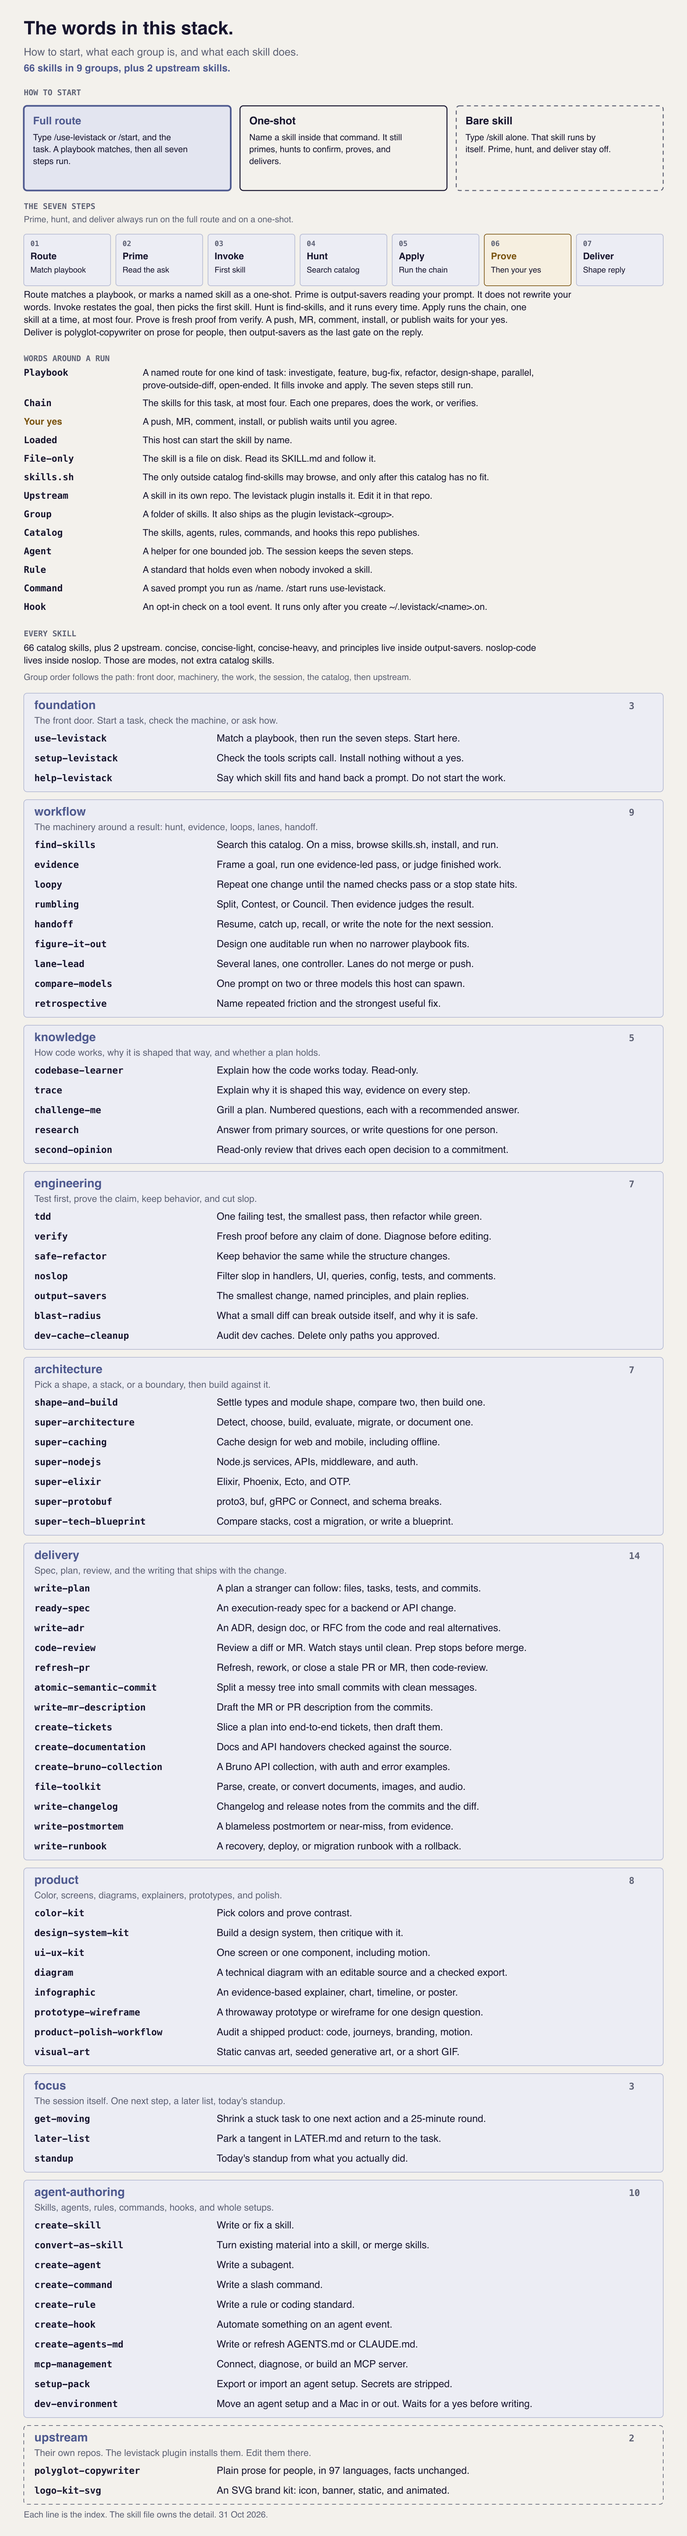
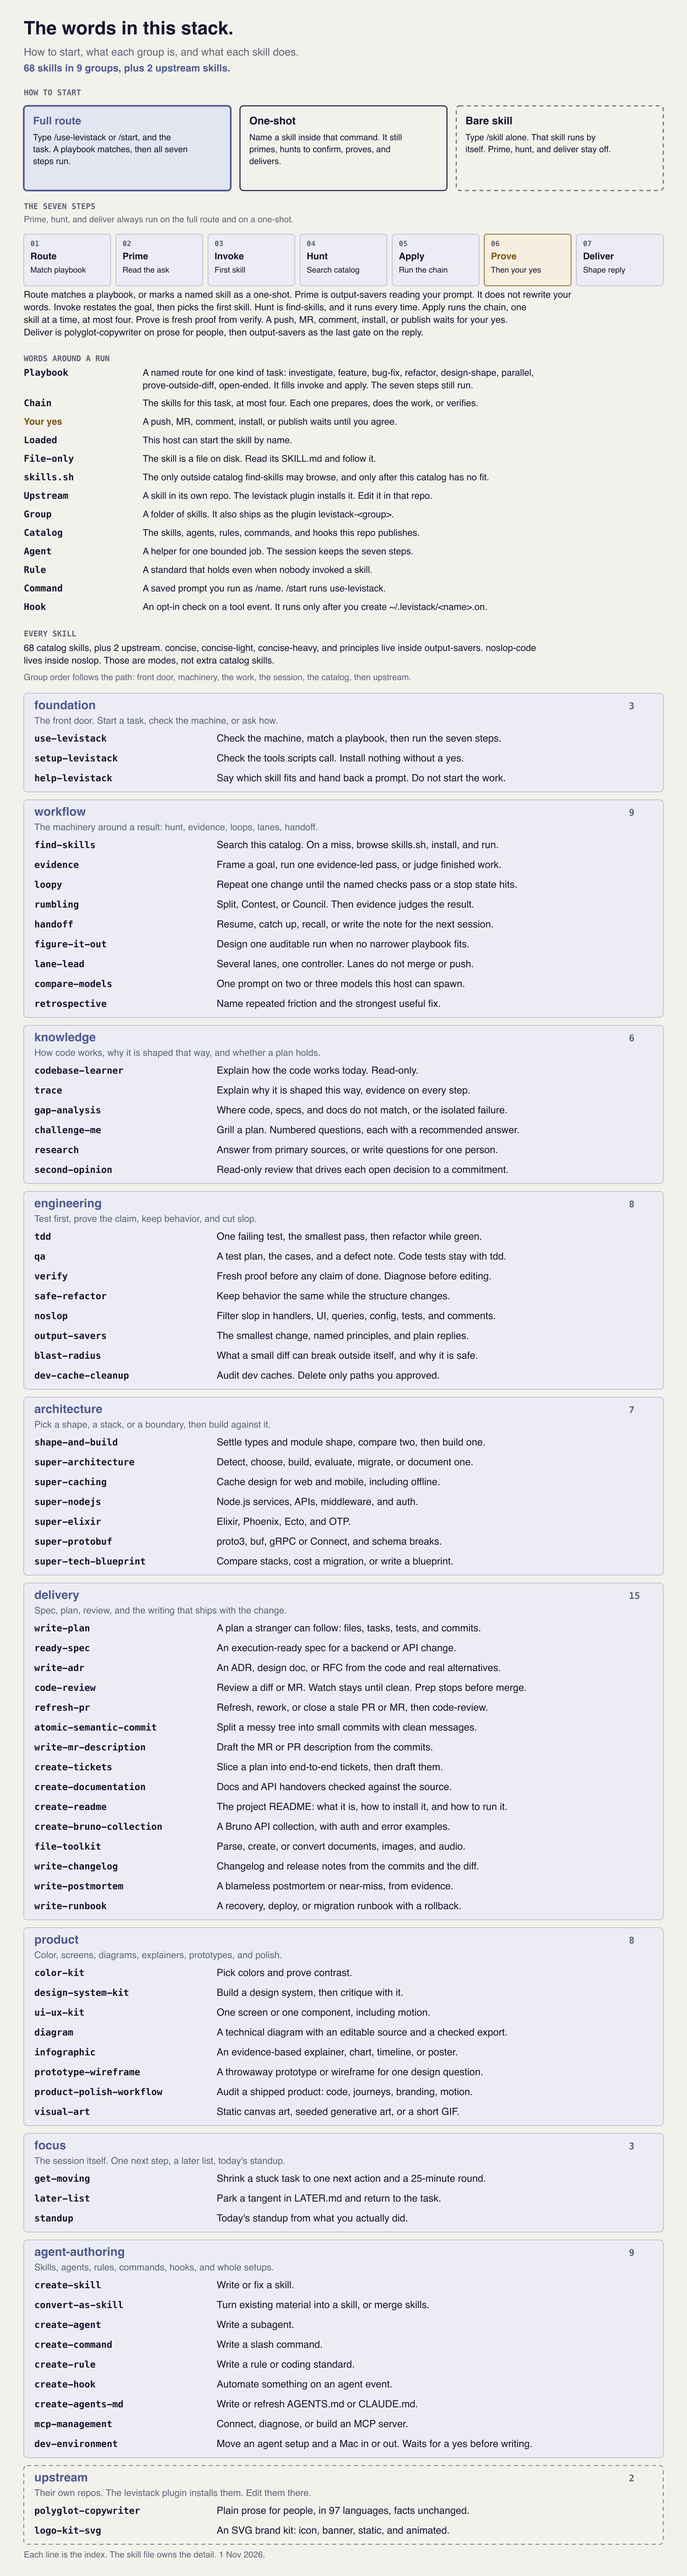
docs(readme): show 68 skills in the glossary
The glossary, routing picture, and changelog match the three new skills.

diff --git a/skills/foundation/help-levistack/SKILL.md b/skills/foundation/help-levistack/SKILL.md
@@ -184,18 +184,18 @@ Order follows the path: front door, machinery, the work, the session, the catalo
 |---|---|---|
 | [`foundation`](../../foundation/DESCRIPTION.md) | The front door. Start a task, check the machine, or ask how. | 3 |
 | [`workflow`](../../workflow/DESCRIPTION.md) | The machinery around a result: hunt, evidence, loops, lanes, handoff. | 9 |
-| [`knowledge`](../../knowledge/DESCRIPTION.md) | How code works, why it is shaped that way, and whether a plan holds. | 5 |
-| [`engineering`](../../engineering/DESCRIPTION.md) | Test first, prove the claim, keep behavior, and cut slop. | 7 |
+| [`knowledge`](../../knowledge/DESCRIPTION.md) | How code works, why it is shaped that way, and whether a plan holds. | 6 |
+| [`engineering`](../../engineering/DESCRIPTION.md) | Test first, prove the claim, keep behavior, and cut slop. | 8 |
 | [`architecture`](../../architecture/DESCRIPTION.md) | Pick a shape, a stack, or a boundary, then build against it. | 7 |
-| [`delivery`](../../delivery/DESCRIPTION.md) | Spec, plan, review, and the writing that ships with the change. | 14 |
+| [`delivery`](../../delivery/DESCRIPTION.md) | Spec, plan, review, and the writing that ships with the change. | 15 |
 | [`product`](../../product/DESCRIPTION.md) | Color, screens, diagrams, explainers, prototypes, and polish. | 8 |
 | [`focus`](../../focus/DESCRIPTION.md) | The session itself. One next step, a later list, today's standup. | 3 |
-| [`agent-authoring`](../../agent-authoring/DESCRIPTION.md) | Skills, agents, rules, commands, hooks, and whole setups. | 10 |
+| [`agent-authoring`](../../agent-authoring/DESCRIPTION.md) | Skills, agents, rules, commands, hooks, and whole setups. | 9 |
 | [`upstream`](../../../upstream.json) | Their own repos. The levistack plugin installs them. Edit them there. | 2 |
 
 ### Every skill
 
-66 catalog skills, plus 2 upstream. concise, concise-light, concise-heavy, and principles live inside output-savers. noslop-code lives inside noslop. Those are modes, not extra catalog skills.
+68 catalog skills, plus 2 upstream. concise, concise-light, concise-heavy, and principles live inside output-savers. noslop-code lives inside noslop. Those are modes, not extra catalog skills.
 
 #### foundation
 
@@ -225,6 +225,7 @@ Order follows the path: front door, machinery, the work, the session, the catalo
 |---|---|
 | [`codebase-learner`](../../knowledge/codebase-learner/SKILL.md) | Explain how the code works today. Read-only. |
 | [`trace`](../../knowledge/trace/SKILL.md) | Explain why it is shaped this way, evidence on every step. |
+| [`gap-analysis`](../../knowledge/gap-analysis/SKILL.md) | Where code, specs, and docs do not match, or the isolated failure. |
 | [`challenge-me`](../../knowledge/challenge-me/SKILL.md) | Grill a plan. Numbered questions, each with a recommended answer. |
 | [`research`](../../knowledge/research/SKILL.md) | Answer from primary sources, or write questions for one person. |
 | [`second-opinion`](../../knowledge/second-opinion/SKILL.md) | Read-only review that drives each open decision to a commitment. |
@@ -234,6 +235,7 @@ Order follows the path: front door, machinery, the work, the session, the catalo
 | Skill | Does |
 |---|---|
 | [`tdd`](../../engineering/tdd/SKILL.md) | One failing test, the smallest pass, then refactor while green. |
+| [`qa`](../../engineering/qa/SKILL.md) | A test plan, the cases, and a defect note. Code tests stay with tdd. |
 | [`verify`](../../engineering/verify/SKILL.md) | Fresh proof before any claim of done. Diagnose before editing. |
 | [`safe-refactor`](../../engineering/safe-refactor/SKILL.md) | Keep behavior the same while the structure changes. |
 | [`noslop`](../../engineering/noslop/SKILL.md) | Filter slop in handlers, UI, queries, config, tests, and comments. |
@@ -266,6 +268,7 @@ Order follows the path: front door, machinery, the work, the session, the catalo
 | [`write-mr-description`](../../delivery/write-mr-description/SKILL.md) | Draft the MR or PR description from the commits. |
 | [`create-tickets`](../../delivery/create-tickets/SKILL.md) | Slice a plan into end-to-end tickets, then draft them. |
 | [`create-documentation`](../../delivery/create-documentation/SKILL.md) | Docs and API handovers checked against the source. |
+| [`create-readme`](../../delivery/create-readme/SKILL.md) | The project README: what it is, how to install it, and how to run it. |
 | [`create-bruno-collection`](../../delivery/create-bruno-collection/SKILL.md) | A Bruno API collection, with auth and error examples. |
 | [`file-toolkit`](../../delivery/file-toolkit/SKILL.md) | Parse, create, or convert documents, images, and audio. |
 | [`write-changelog`](../../delivery/write-changelog/SKILL.md) | Changelog and release notes from the commits and the diff. |
@@ -305,7 +308,7 @@ Order follows the path: front door, machinery, the work, the session, the catalo
 | [`create-hook`](../../agent-authoring/create-hook/SKILL.md) | Automate something on an agent event. |
 | [`create-agents-md`](../../agent-authoring/create-agents-md/SKILL.md) | Write or refresh AGENTS.md or CLAUDE.md. |
 | [`mcp-management`](../../agent-authoring/mcp-management/SKILL.md) | Connect, diagnose, or build an MCP server. |
-| [`dev-environment`](../../agent-authoring/dev-environment/SKILL.md) | Move an agent setup and a Mac in or out. Secrets are stripped. Waits for a yes before writing. |
+| [`dev-environment`](../../agent-authoring/dev-environment/SKILL.md) | Move an agent setup and a Mac in or out. Waits for a yes before writing. |
 
 #### upstream
 

diff --git a/README.md b/README.md
@@ -6,7 +6,7 @@
 
 <p align="left"><em>Meet Murk, the mug. Overskilled, underslept, and one cron job away from a nap.</em></p>
 
-The agent skills I use every day, in one repo. 65 skills (plus 2 [upstream](#upstream-skills)), 11 subagents, 42 rules, 15 commands and 5 hooks for Claude Code, Codex, Cursor, Antigravity, Trae and the skills CLI.
+The agent skills I use every day, in one repo. 68 skills (plus 2 [upstream](#upstream-skills)), 11 subagents, 42 rules, 15 commands and 5 hooks for Claude Code, Codex, Cursor, Antigravity, Trae and the skills CLI.
 
 **Not sure which skill fits?** Start with `/use-levistack <what you want>`. It picks the skill, runs it, checks the result, and writes the reply in plain words.
 
@@ -225,10 +225,10 @@ Order follows the path: front door, machinery, the work, the session, the catalo
 |---|---|---|
 | [`foundation`](skills/foundation/DESCRIPTION.md) | The front door. Start a task, check the machine, or ask how. | 3 |
 | [`workflow`](skills/workflow/DESCRIPTION.md) | The machinery around a result: hunt, evidence, loops, lanes, handoff. | 9 |
-| [`knowledge`](skills/knowledge/DESCRIPTION.md) | How code works, why it is shaped that way, and whether a plan holds. | 5 |
-| [`engineering`](skills/engineering/DESCRIPTION.md) | Test first, prove the claim, keep behavior, and cut slop. | 7 |
+| [`knowledge`](skills/knowledge/DESCRIPTION.md) | How code works, why it is shaped that way, and whether a plan holds. | 6 |
+| [`engineering`](skills/engineering/DESCRIPTION.md) | Test first, prove the claim, keep behavior, and cut slop. | 8 |
 | [`architecture`](skills/architecture/DESCRIPTION.md) | Pick a shape, a stack, or a boundary, then build against it. | 7 |
-| [`delivery`](skills/delivery/DESCRIPTION.md) | Spec, plan, review, and the writing that ships with the change. | 14 |
+| [`delivery`](skills/delivery/DESCRIPTION.md) | Spec, plan, review, and the writing that ships with the change. | 15 |
 | [`product`](skills/product/DESCRIPTION.md) | Color, screens, diagrams, explainers, prototypes, and polish. | 8 |
 | [`focus`](skills/focus/DESCRIPTION.md) | The session itself. One next step, a later list, today's standup. | 3 |
 | [`agent-authoring`](skills/agent-authoring/DESCRIPTION.md) | Skills, agents, rules, commands, hooks, and whole setups. | 9 |
@@ -236,7 +236,7 @@ Order follows the path: front door, machinery, the work, the session, the catalo
 
 ### Every skill
 
-65 catalog skills, plus 2 upstream. concise, concise-light, concise-heavy, and principles live inside output-savers. noslop-code lives inside noslop. Those are modes, not extra skills.
+68 catalog skills, plus 2 upstream. concise, concise-light, concise-heavy, and principles live inside output-savers. noslop-code lives inside noslop. Those are modes, not extra skills.
 
 #### foundation
 
@@ -266,6 +266,7 @@ Order follows the path: front door, machinery, the work, the session, the catalo
 |---|---|
 | [`codebase-learner`](skills/knowledge/codebase-learner/SKILL.md) | Explain how the code works today. Read-only. |
 | [`trace`](skills/knowledge/trace/SKILL.md) | Explain why it is shaped this way, evidence on every step. |
+| [`gap-analysis`](skills/knowledge/gap-analysis/SKILL.md) | Where code, specs, and docs do not match, or the isolated failure. |
 | [`challenge-me`](skills/knowledge/challenge-me/SKILL.md) | Grill a plan. Numbered questions, each with a recommended answer. |
 | [`research`](skills/knowledge/research/SKILL.md) | Answer from primary sources, or write questions for one person. |
 | [`second-opinion`](skills/knowledge/second-opinion/SKILL.md) | Read-only review that drives each open decision to a commitment. |
@@ -275,6 +276,7 @@ Order follows the path: front door, machinery, the work, the session, the catalo
 | Skill | Does |
 |---|---|
 | [`tdd`](skills/engineering/tdd/SKILL.md) | One failing test, the smallest pass, then refactor while green. |
+| [`qa`](skills/engineering/qa/SKILL.md) | A test plan, the cases, and a defect note. Code tests stay with tdd. |
 | [`verify`](skills/engineering/verify/SKILL.md) | Fresh proof before any claim of done. Diagnose before editing. |
 | [`safe-refactor`](skills/engineering/safe-refactor/SKILL.md) | Keep behavior the same while the structure changes. |
 | [`noslop`](skills/engineering/noslop/SKILL.md) | Filter slop in handlers, UI, queries, config, tests, and comments. |
@@ -307,6 +309,7 @@ Order follows the path: front door, machinery, the work, the session, the catalo
 | [`write-mr-description`](skills/delivery/write-mr-description/SKILL.md) | Draft the MR or PR description from the commits. |
 | [`create-tickets`](skills/delivery/create-tickets/SKILL.md) | Slice a plan into end-to-end tickets, then draft them. |
 | [`create-documentation`](skills/delivery/create-documentation/SKILL.md) | Docs and API handovers checked against the source. |
+| [`create-readme`](skills/delivery/create-readme/SKILL.md) | The project README: what it is, how to install it, and how to run it. |
 | [`create-bruno-collection`](skills/delivery/create-bruno-collection/SKILL.md) | A Bruno API collection, with auth and error examples. |
 | [`file-toolkit`](skills/delivery/file-toolkit/SKILL.md) | Parse, create, or convert documents, images, and audio. |
 | [`write-changelog`](skills/delivery/write-changelog/SKILL.md) | Changelog and release notes from the commits and the diff. |

diff --git a/docs/assets/levistack-glossary.receipt.md b/docs/assets/levistack-glossary.receipt.md
@@ -4,7 +4,7 @@
 
 - Topic: how to start, the words around a run, the nine groups, and every catalog skill
 - Audience: someone installing levistack who needs the words, not the route picture
-- Platform: README image, next to the same glossary in text. SVG 1040 x 3834, PNG export 2080 x 7668 (2x)
+- Platform: README image, next to the same glossary in text. SVG 1040 x 3894, PNG export 2080 x 7788 (2x)
 
 ## Evidence pack
 
@@ -13,7 +13,7 @@
 | Three ways to start: full route (`/use-levistack` or `/start`), one-shot, bare skill | sourced | `skills/foundation/use-levistack/SKILL.md` (One-shots), `commands/start.md` | A bare `/skill` skips prime, hunt, and deliver |
 | Seven steps and what each does | sourced | `skills/foundation/use-levistack/SKILL.md` | The chips are short labels. The sentence under them is the definition |
 | Words: playbook, chain, your yes, loaded, file-only, skills.sh, upstream, group, catalog, agent, rule, command, hook | sourced | `use-levistack` SKILL.md, `find-skills` SKILL.md, `commands/start.md`, `hooks/README.md` | One sentence each. The owning file has the rest |
-| 66 skills in 9 groups, plus 2 upstream | measured | top-level `skills/<group>/<name>/SKILL.md` on 31 Oct 2026, `upstream.json` | foundation 3, workflow 9, knowledge 5, engineering 7, architecture 7, delivery 14, product 8, focus 3, agent-authoring 10 |
+| 68 skills in 9 groups, plus 2 upstream | measured | top-level `skills/<group>/<name>/SKILL.md` on 1 Nov 2026, `upstream.json` | foundation 3, workflow 9, knowledge 6, engineering 8, architecture 7, delivery 15, product 8, focus 3, agent-authoring 9 |
 | Modes inside a skill are not catalog entries | sourced | `skills/engineering/output-savers/concise/`, `principles/`, `skills/engineering/noslop/skills/noslop-code/` | concise, concise-light, concise-heavy, principles, noslop-code |
 | Each skill line | sourced | that skill's `description`, shortened to one clause | The line is an index. The skill file owns the detail |
 | 97 languages, facts unchanged | sourced | `upstream.json` description of `polyglot-copywriter` | Count is the upstream skill's own claim |
@@ -47,8 +47,8 @@ Body glosses are ink. Muted is for roles, eyebrows, and the closing line. All fi
 - Final file: `docs/assets/levistack-glossary.png`
 - Vector source: `docs/assets/levistack-glossary.svg`
 - Text equivalent: the Glossary section in `README.md`, and the same section in `skills/foundation/help-levistack/SKILL.md`. The PNG has no text layer
[2 lines of base64/hex data omitted]
-- Current check: rendered at 2080 x 7668 and inspected in slices (header and steps, word list, middle groups, delivery and product, focus through the footer). Long names (`atomic-semantic-commit`, `create-bruno-collection`, `product-polish-workflow`) stay clear of the gloss column. The footer is on the canvas. No numeric quality score was assigned
[2 lines of base64/hex data omitted]
+- Current check: rendered at 2080 x 7788 and inspected in slices (header, knowledge and engineering, delivery, agent-authoring through the footer). `gap-analysis`, `qa`, and `create-readme` are in their groups. `setup-pack` is not listed. The footer is on the canvas. No numeric quality score was assigned
 - Limitations: at a README width near 900px, 15px source type is about 13px. The markdown under the image is the copy to search. Not checked in print
 - Update rule: when a skill is added or renamed, change the line in both markdown glossaries and in the SVG, re-render the PNG, and update the hashes here

diff --git a/docs/assets/levistack-routing-stack.receipt.md b/docs/assets/levistack-routing-stack.receipt.md
@@ -16,7 +16,7 @@
 | Invoke picks from the intent map | verified | `skills/foundation/use-levistack/playbooks/invoke.md` | The graphic shows 12 of the map's first picks. It does not list every mode or skill |
 | Hunt: at most three questions, chain of up to four, skills.sh only for a gap | verified | `skills/workflow/find-skills/SKILL.md` | |
 | Prove: verify, then your yes for outward actions, then a re-check | verified | `playbooks/prove.md` | |
-| 66 skills in 9 groups, with the per-group counts shown | verified | `skills/catalog-metadata.json`, `skills/*/*/SKILL.md` | foundation 3, workflow 9, knowledge 5, engineering 7, architecture 7, delivery 14, product 8, agent-authoring 10, focus 3. Nested skills (`noslop-code`, `output-savers` modes) not counted |
+| 68 skills in 9 groups, with the per-group counts shown | verified | `skills/catalog-metadata.json`, `skills/*/*/SKILL.md` | foundation 3, workflow 9, knowledge 6, engineering 8, architecture 7, delivery 15, product 8, agent-authoring 9, focus 3. Nested skills (`noslop-code`, `output-savers` modes) not counted |
 | Group layers: foundation starts, workflow frames, domain groups do the work, focus and agent-authoring sit beside the path | verified | `skills/foundation/DESCRIPTION.md`, `skills/workflow/DESCRIPTION.md`, `skills/focus/DESCRIPTION.md`, `skills/agent-authoring/DESCRIPTION.md` | The graphic shows the layer line in the apply box, not a box per layer role |
 | Parallel work is coordinated by `rumbling`; completed work is judged by `evidence` | verified | `skills/workflow/rumbling/SKILL.md`, `skills/workflow/evidence/SKILL.md` | The graphic names the relation, not every mode |
 | 42 rules, 5 always on, per-topic counts | verified | `rules/*/*.md`, a line `alwaysApply: true` in the frontmatter of `rules/core/*.md` (the session-start hook uses the same test) | The graphic names seven core rules as examples |
@@ -44,15 +44,15 @@ After seeing this image for five seconds, the viewer should understand that ever
 - Entry line: Type /start (or /use-levistack) and your task. It picks the skill, runs it, proves it and shapes the reply.
 - Steps: Route, Prime, Invoke, Hunt, Apply, Prove, Deliver
 - Envelope: rules, hooks, one-shot, agents, focus, upstream plugins
-- Source line: 66 skills, 11 agents, 42 rules, 15 commands, 5 hooks, 2 upstream, 31 Oct 2026
+- Source line: 68 skills, 11 agents, 42 rules, 15 commands, 5 hooks, 2 upstream, 1 Nov 2026
 
 ## Receipt
 
 - Final file: `docs/assets/levistack-routing-stack.png`
 - Vector source: `docs/assets/levistack-routing-stack.svg`
[2 lines of base64/hex data omitted]
-- Current check: re-rendered at 2960 x 2944. The `agent-authoring · 10` label fits its card. No numeric quality score was assigned.
[2 lines of base64/hex data omitted]
+- Current check: re-rendered at 2960 x 2944. The `agent-authoring · 9` label and `create-*, dev-environment` fit the card. No numeric quality score was assigned
 - Limitations: the title and the spine survive a thumbnail. Box detail needs the full image. The skeleton follows the-catalyst graphic on purpose, so the two read as one family.
-- Last change: catalog count is 66 skills. `agent-authoring` on the apply card is 10 (`dev-environment`). Canvas stays 1480 x 1472.
+- Last change: catalog count is 68 skills. `knowledge` is 6, `engineering` is 8, `delivery` is 15, and `agent-authoring` is 9. Canvas stays 1480 x 1472.
 - Update rule: when a count or step changes, edit the SVG, re-render the PNG, and update the hashes here.

diff --git a/CHANGELOG.md b/CHANGELOG.md
@@ -7,6 +7,7 @@ All notable changes to this catalog are documented here. Version numbers follow 
 ### Added
 
 - `dev-cache-cleanup` cache catalog for Node.js, web, mobile (Android APK/AAB, iOS, Flutter), backend stacks (Go, Ruby, Elixir, Rust, Java, Python, PHP, .NET), Docker guidance, and matching scan and home-audit recognition.
+- `create-readme`, `gap-analysis`, and `qa`. A project README, a gap or debug pass, and a test plan.
 - `foundation` group: `use-levistack` now matches a situational playbook before its seven steps, `setup-levistack` checks the tools scripts call, and `help-levistack` answers which skill fits without starting work.
 - `shape-and-build`, `blast-radius`, and `figure-it-out` for design shape, outside-the-diff risk, and auditable open-ended runs.
 - `refresh-pr`, plus `code-review` watch and prep modes that stop before merge.
@@ -15,11 +16,12 @@ All notable changes to this catalog are documented here. Version numbers follow 
 ### Changed
 
 - `use-levistack` checks this machine before it routes. A blocked check (`node` or `python3` missing) runs `setup-levistack` first and does not start the task until the check passes. Named gaps in optional tools do not stop the route.
-- Glossary of how to start, each group, and every skill, in `help-levistack`, the README, and `docs/assets/levistack-glossary.png`. The catalog count is 65 skills (`dev-environment` included, `setup-pack` folded in).
+- Glossary of how to start, each group, and every skill, in `help-levistack`, the README, and `docs/assets/levistack-glossary.png`. The catalog count is 68 skills.
 - `find-skills` now really searches the levistack catalog (routing map, two keyword passes, full list) before anything else, browses skills.sh as its only external source, and after a yes installs the pick on this machine with `npx skills add -g`, verifies it landed, and invokes it in the same session.
 - Moved `retrospective` from `agent-authoring` to `workflow`.
 - Moved `figure-it-out` from `knowledge` to `workflow`, and `use-levistack` from `workflow` to `foundation`.
-- Routing-stack graphic and README updated to 66 skills in 9 groups. Hunt now runs on every `use-levistack` run.
+- Hunt now runs on every `use-levistack` run.
+- Glossary and routing pictures now show 68 skills. knowledge 6, engineering 8, delivery 15, agent-authoring 9.
 
 ---
 
